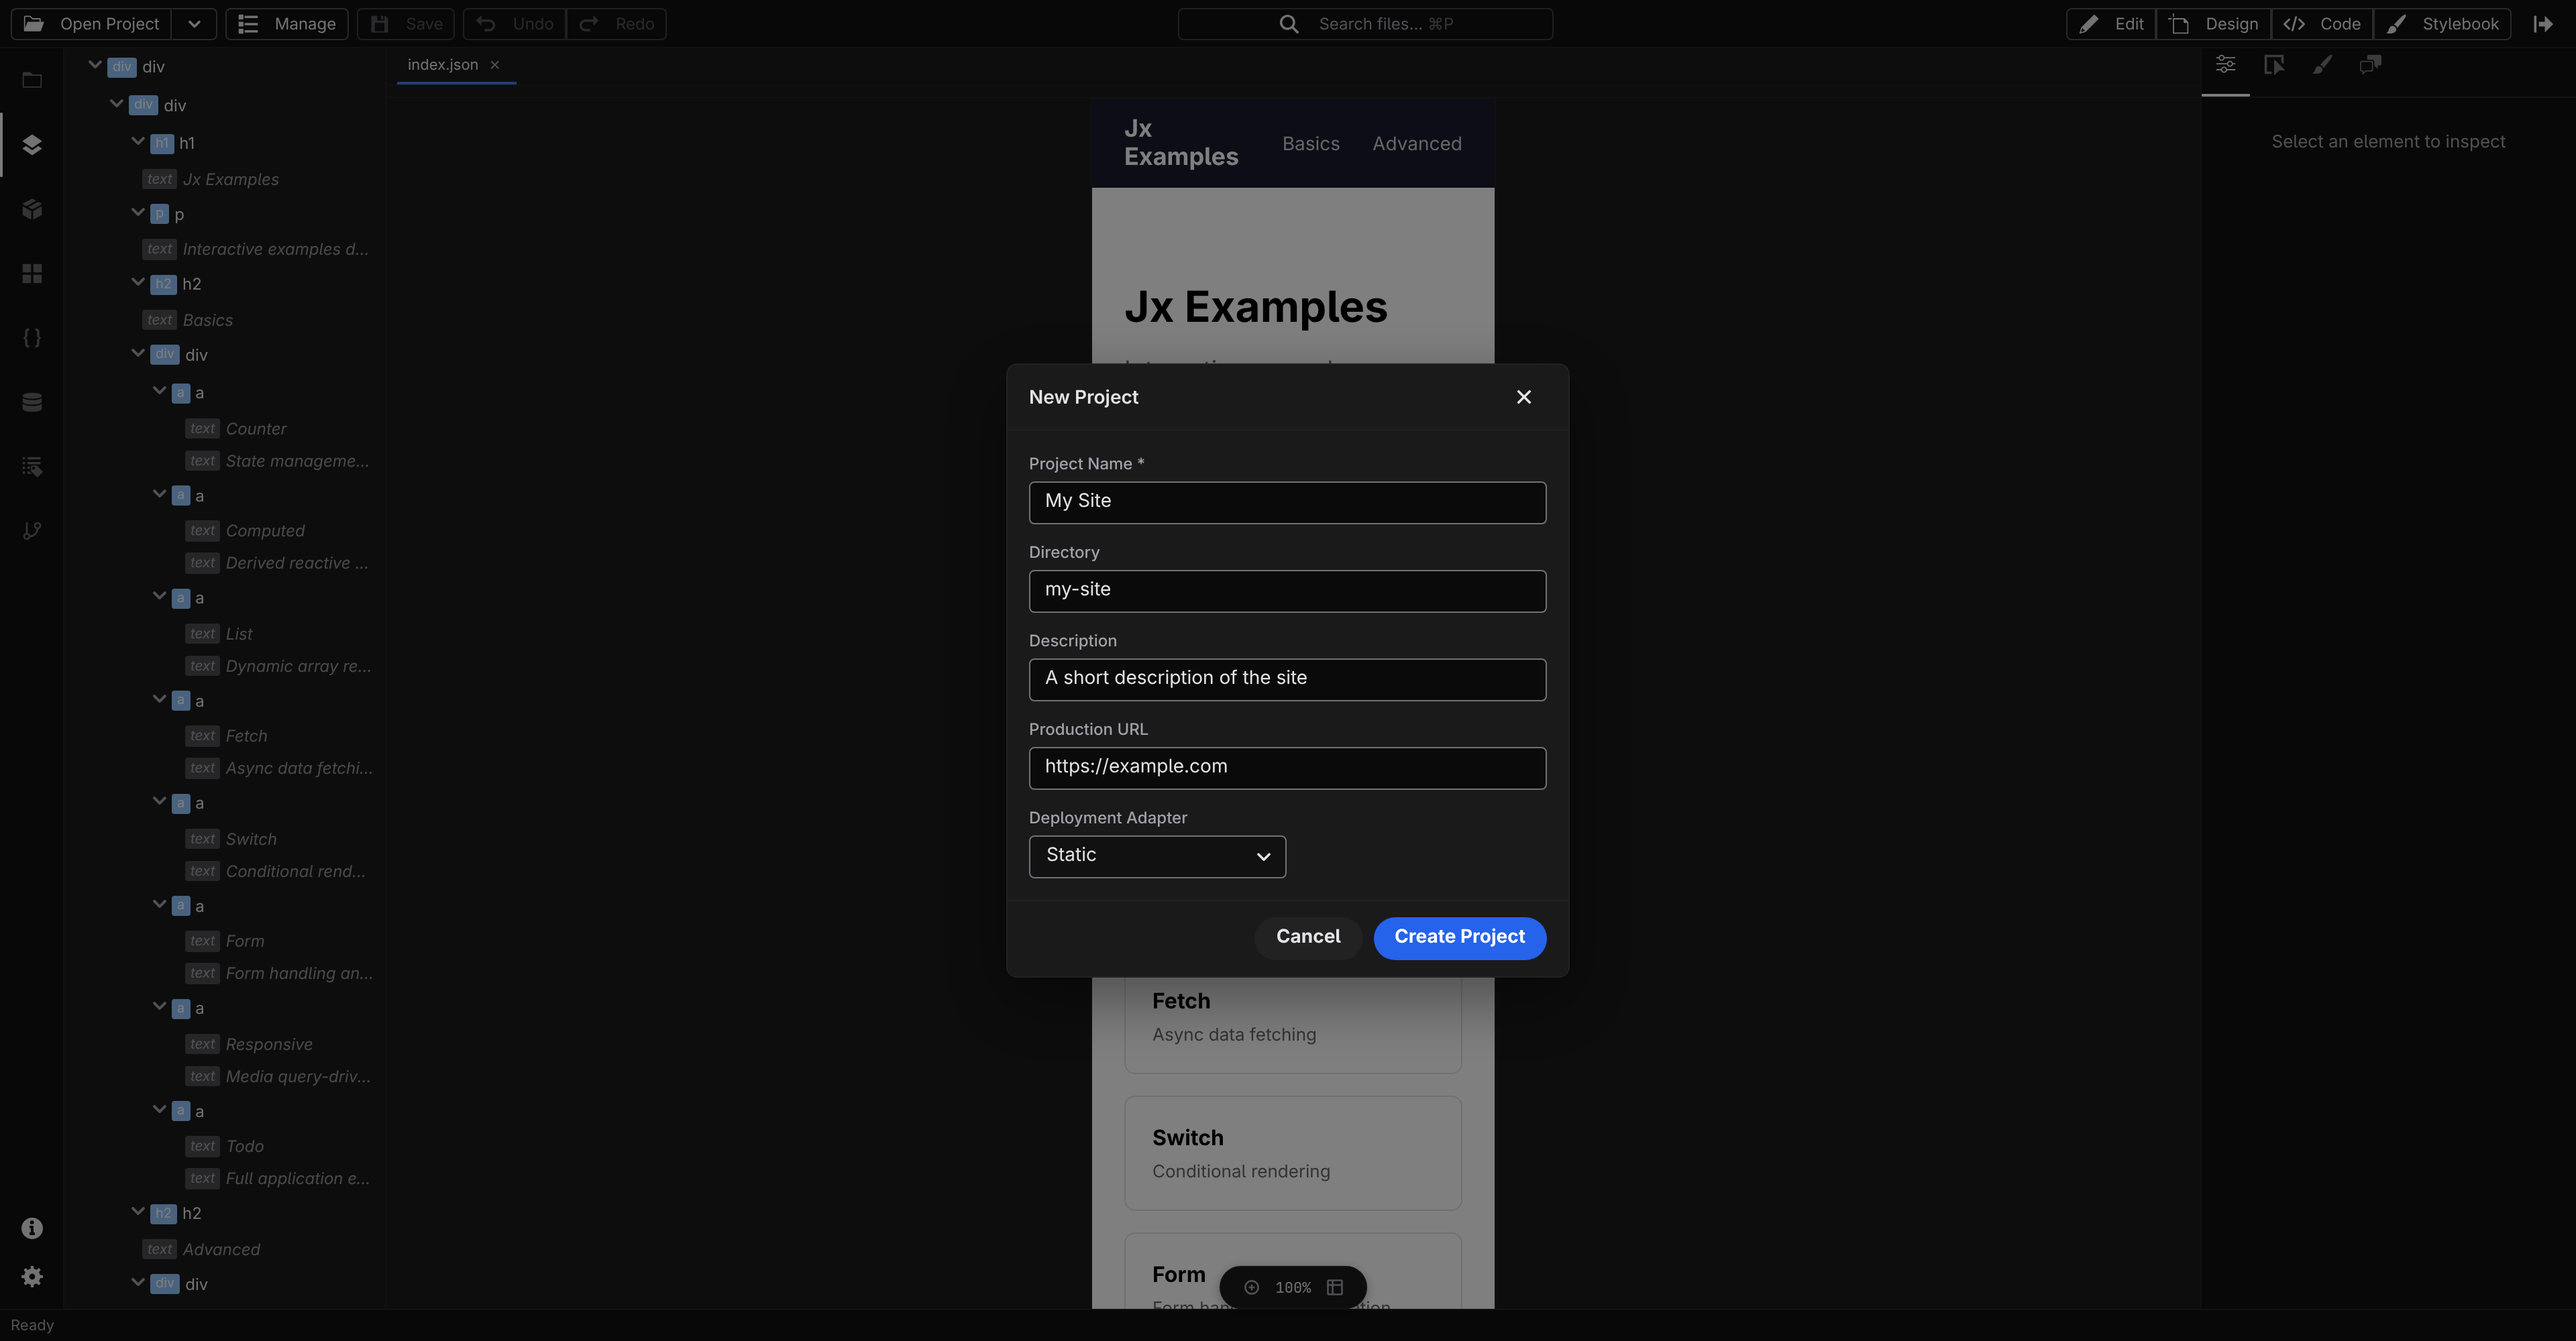
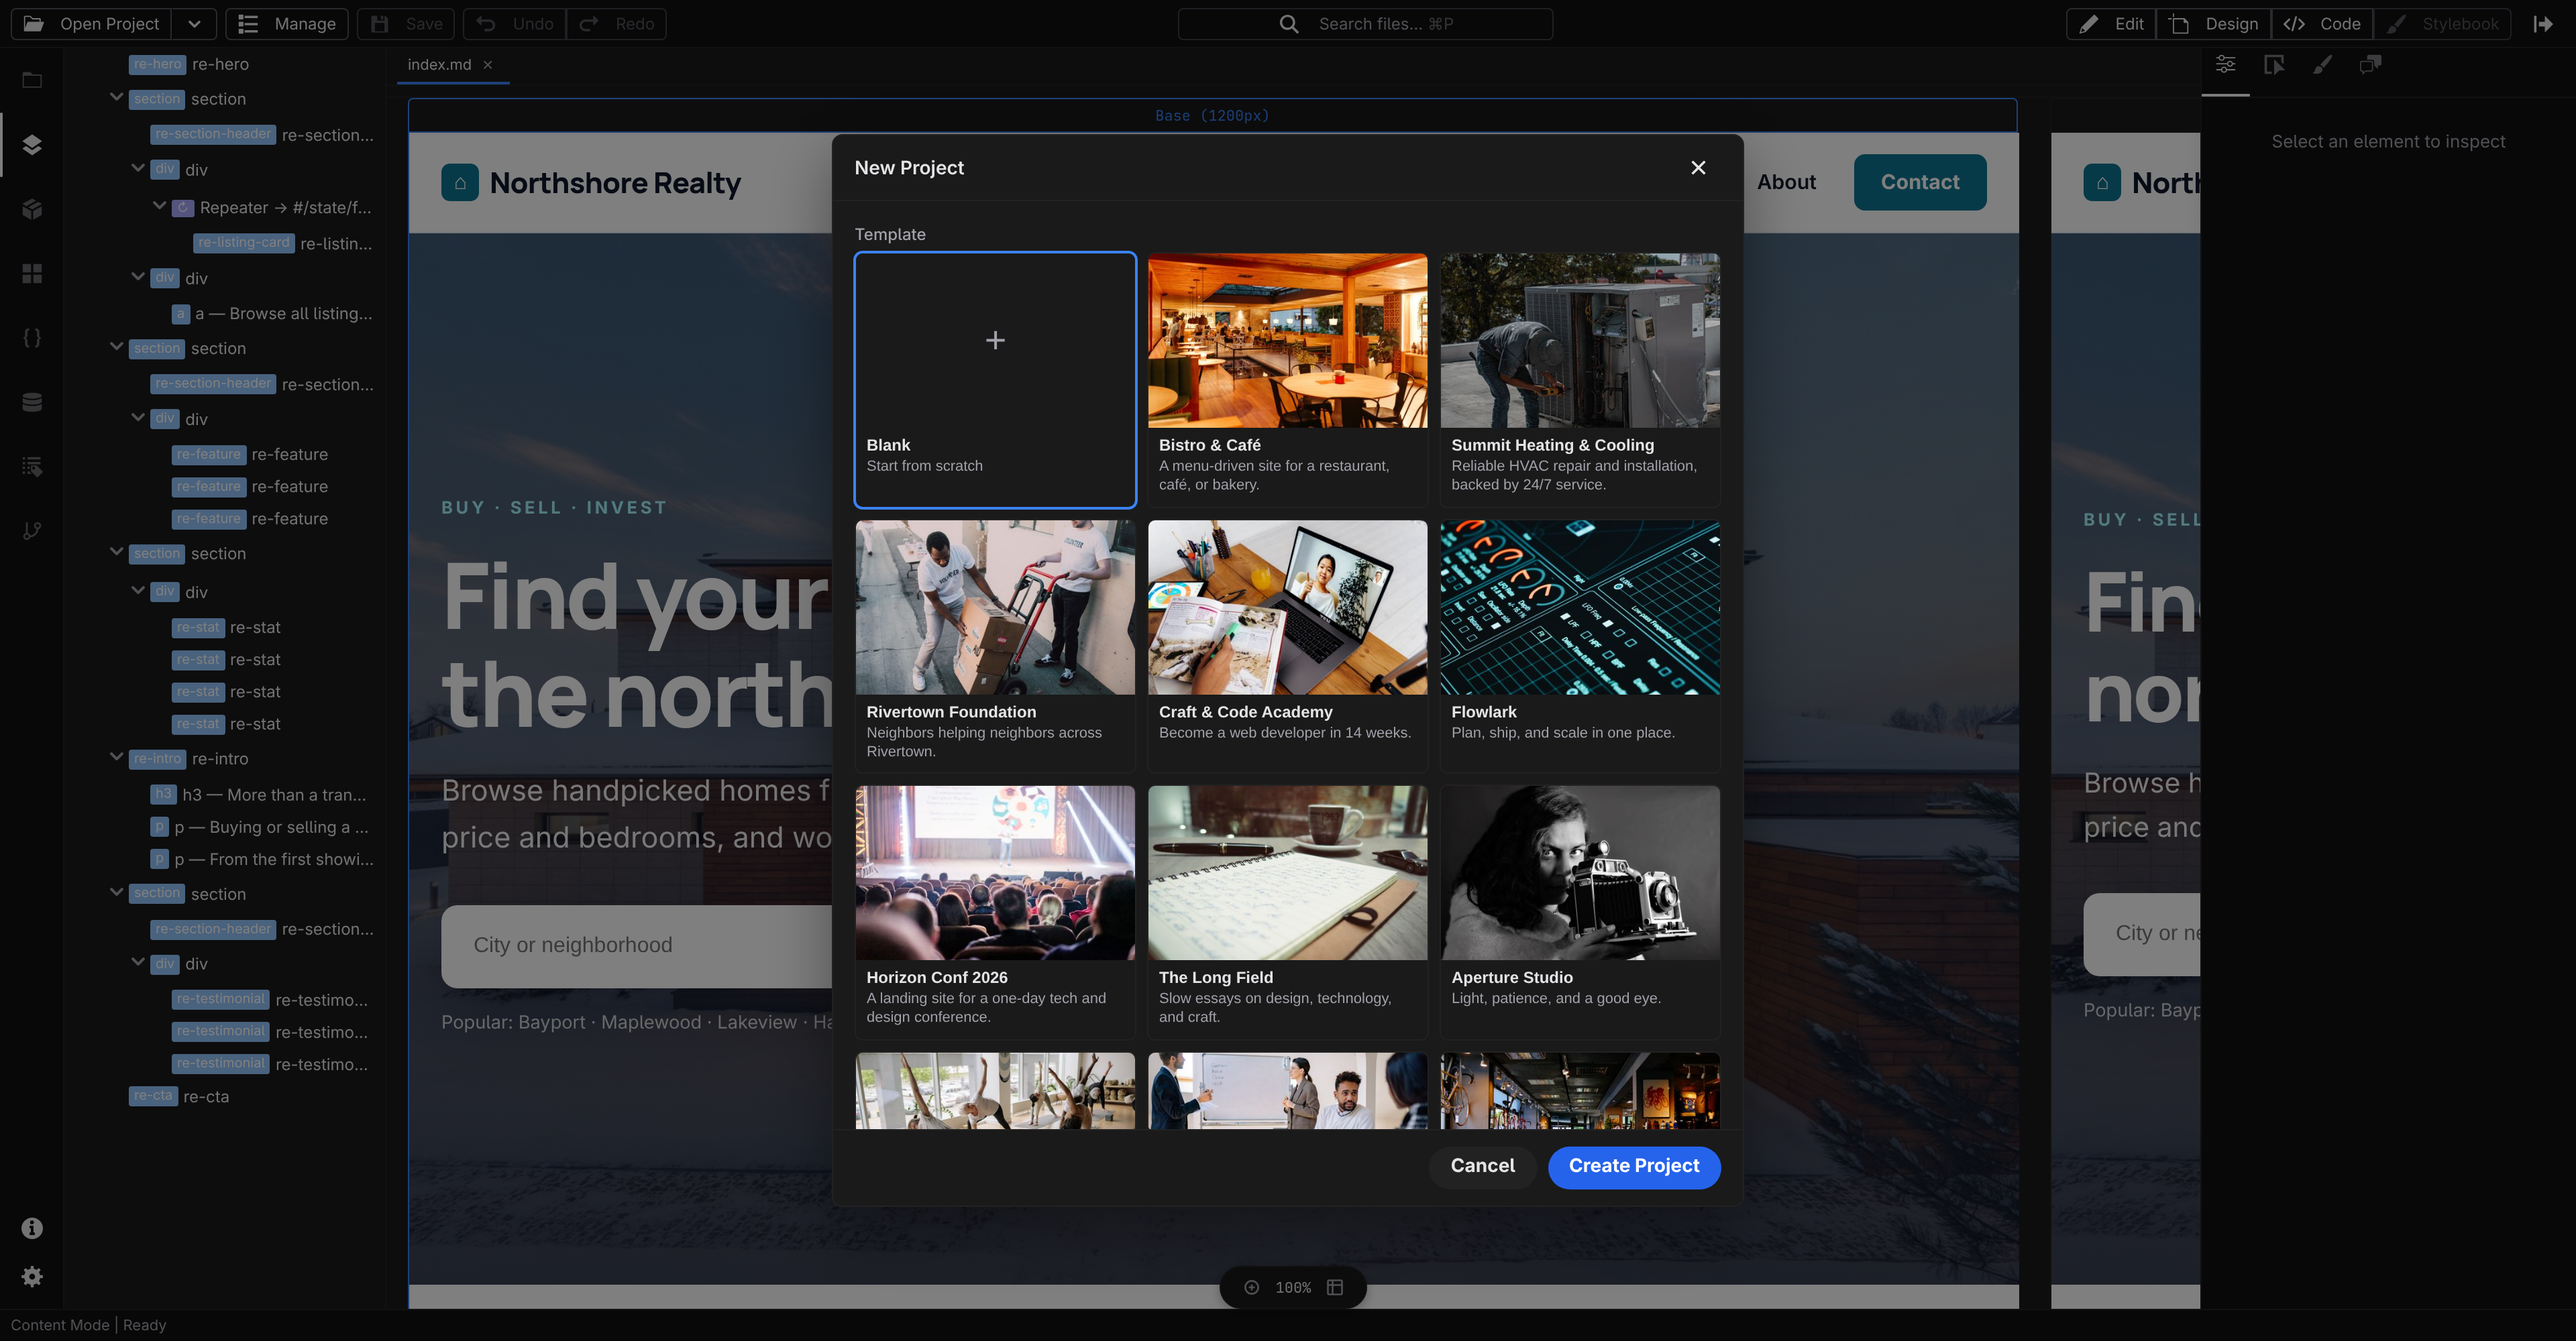
docs: screenshot updates

diff --git a/packages/studio/tests/ensure-deps.test.ts b/packages/studio/tests/ensure-deps.test.ts
@@ -69,6 +69,31 @@ describe("ensureDependenciesInstalled", () => {
     expect(card()?.textContent).toContain("EACCES denied");
   });
 
+  test("skips install entirely in automation mode (never mutates the project)", async () => {
+    const { happyDOM } = globalThis as unknown as { happyDOM: { setURL: (u: string) => void } };
+    happyDOM.setURL("http://localhost:3000/packages/studio/index.html?automation=1");
+    let installs = 0;
+    let checked = 0;
+    installMockPlatform({
+      dependenciesNeedInstall: async () => {
+        checked += 1;
+        return true;
+      },
+      installDependencies: async () => {
+        installs += 1;
+        return { ok: true };
+      },
+    });
+    try {
+      await ensureDependenciesInstalled();
+      expect(checked).toBe(0);
+      expect(installs).toBe(0);
+      expect(card()).toBeNull();
+    } finally {
+      happyDOM.setURL("http://localhost:3000/packages/studio/index.html");
+    }
+  });
+
   test("swallows a throwing dependenciesNeedInstall", async () => {
     installMockPlatform({
       dependenciesNeedInstall: async () => {

diff --git a/packages/studio/src/packages/ensure-deps.ts b/packages/studio/src/packages/ensure-deps.ts
@@ -7,8 +7,14 @@
 
 import { getPlatform } from "../platform";
 import { showProgressModal } from "../ui/progress-modal";
+import { shouldInstallAutomation } from "../services/automation";
 
 export async function ensureDependenciesInstalled(): Promise<void> {
+  // Automation/screenshot runs open projects read-only to drive the canvas — they must never mutate
+  // The project on disk (a `bun install` would litter node_modules/bun.lock into starter templates).
+  if (shouldInstallAutomation(location.search)) {
+    return;
+  }
   const platform = getPlatform();
   if (!platform.dependenciesNeedInstall || !platform.installDependencies) {
     return;

diff --git a/scripts/screenshots/README.md b/scripts/screenshots/README.md
@@ -7,6 +7,14 @@ drives Studio in headless Chromium via the gated `window.__jxAutomation` hook
 and writes PNGs to `sites/jxsuite.com/public/screenshots/` — where the site's Sharp/srcset image
 pipeline and the root README consume them.
 
+Shots drive the **starter sites** (`packages/starters/sites/*`) so the docs and marketing show real
+sample projects, not Jx's own internals. `real-estate` is the default (Manage / Script / State /
+Git — its `re-listings-filter` has an editable `visibleCount` function for the "Script" shot). The
+content-rendering shots pick the most colorful fit: **Edit** renders the `restaurant` homepage
+(edit/preview modes run the page, so content resolves), and **Design** styles the `event` site's
+violet `ev-savedate` component (design mode shows the un-run template, so it emphasizes the
+breakpoint canvas + CSS inspector rather than resolved text).
+
 ## Usage
 
 ```bash
@@ -30,7 +38,7 @@ support), waits for the canvas iframe to ack `renderComplete`, then applies acti
 ```jsonc
 {
   "name": "hero", // output file name (hero.png)
-  "project": "sites/jxsuite.com", // repo-relative project dir (default from `defaults`)
+  "project": "packages/starters/sites/real-estate", // repo-relative project dir (default from `defaults`)
   "file": "pages/index.md", // file to open in a tab
   "canvasMode": "design", // design | edit | preview | stylebook
   "viewport": { "width": 1920, "height": 1200 },
